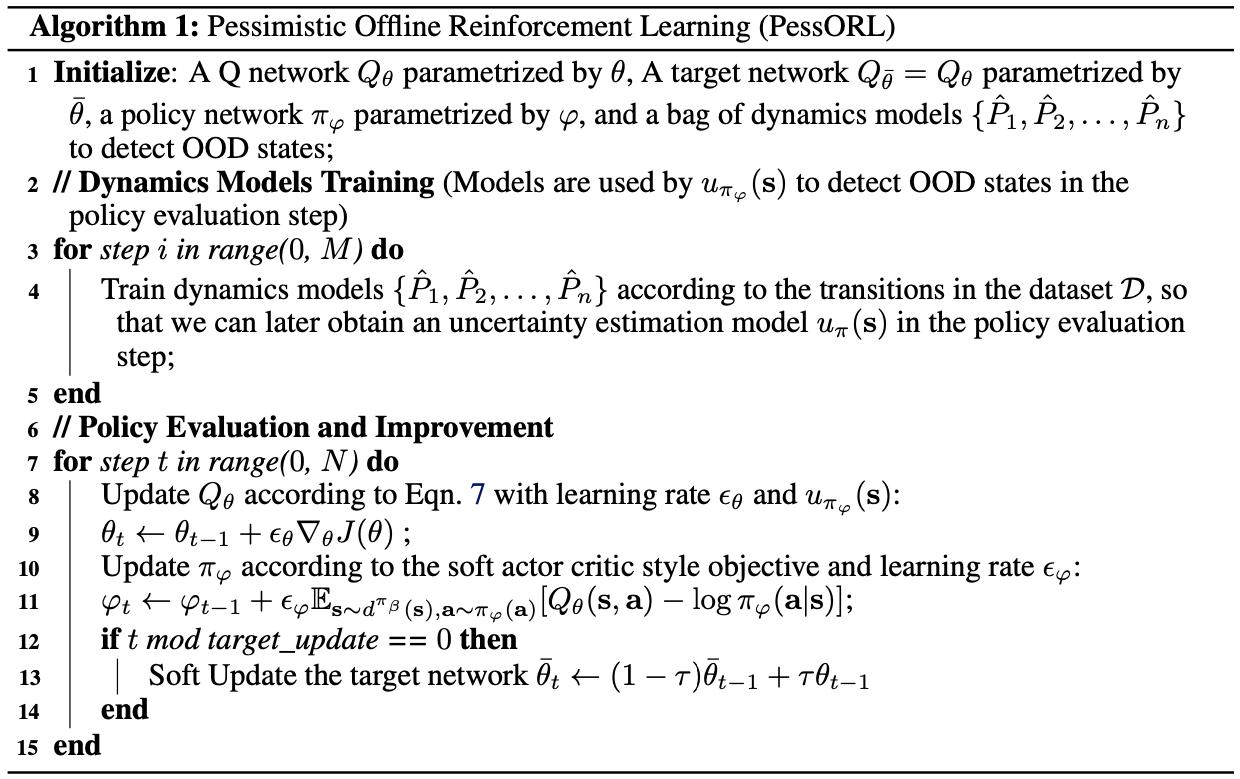
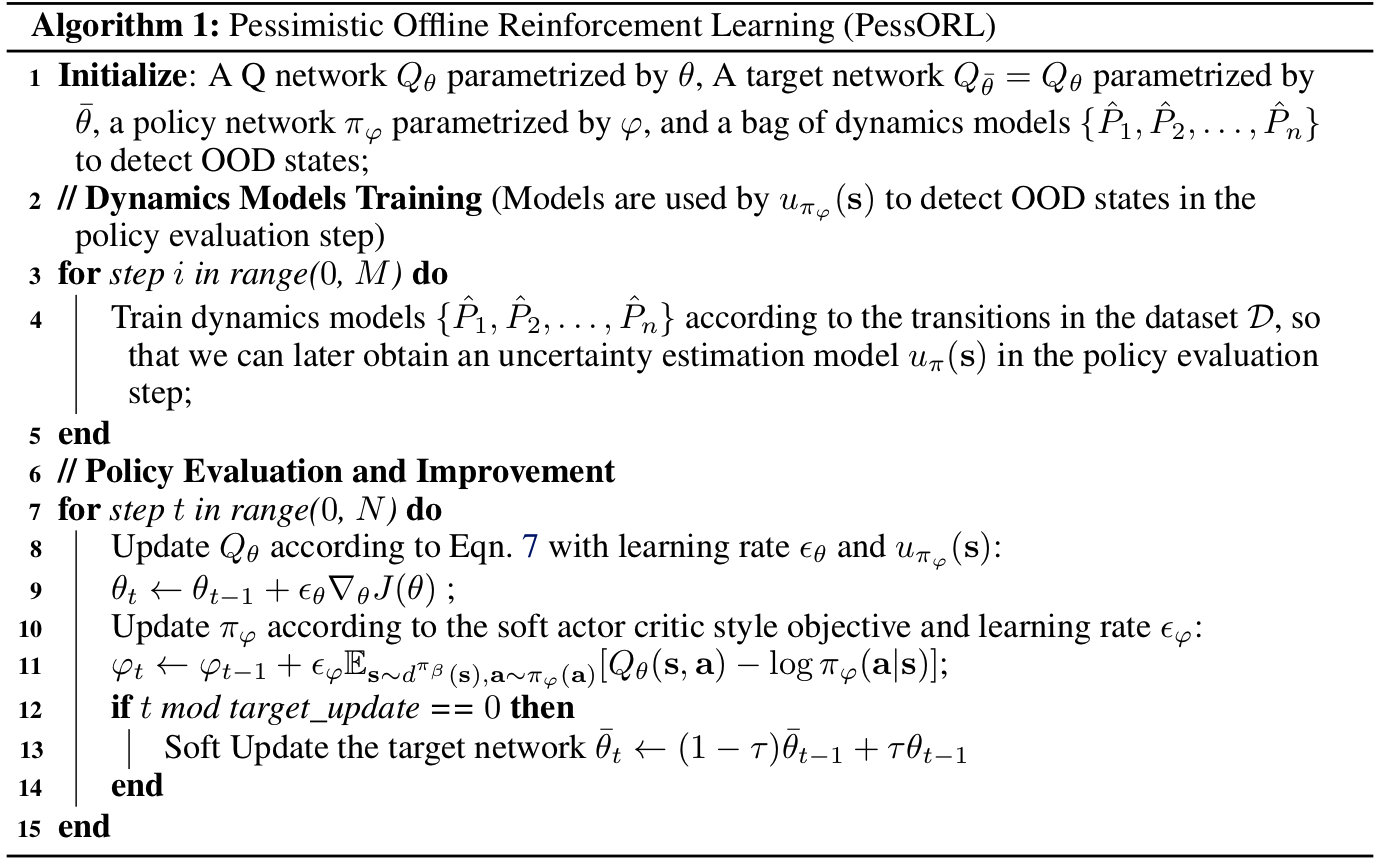
adjust image width

diff --git a/_pages/research.md b/_pages/research.md
@@ -5,7 +5,7 @@ permalink: /research/
 author_profile: true
 ---
 
-<img src="/images/porl2.png" style="float: right; margin-left: 2em; margin-top: 0.5em; margin-bottom: 0.8em">
+<img src="/images/porl2.png" width="400" style="float: right; margin-left: 2em; margin-top: 0.5em; margin-bottom: 0.8em">
 
 **Dealing with the Unknown:Pessimistic Offline Reinforcement Learning [[CoRL 2021]](https://openreview.net/forum?id=ftOqDUeLPn3)** <br />
 _Jinning Li, Chen Tang, Masayoshi Tomizuka, Wei Zhan_ <br/> 
